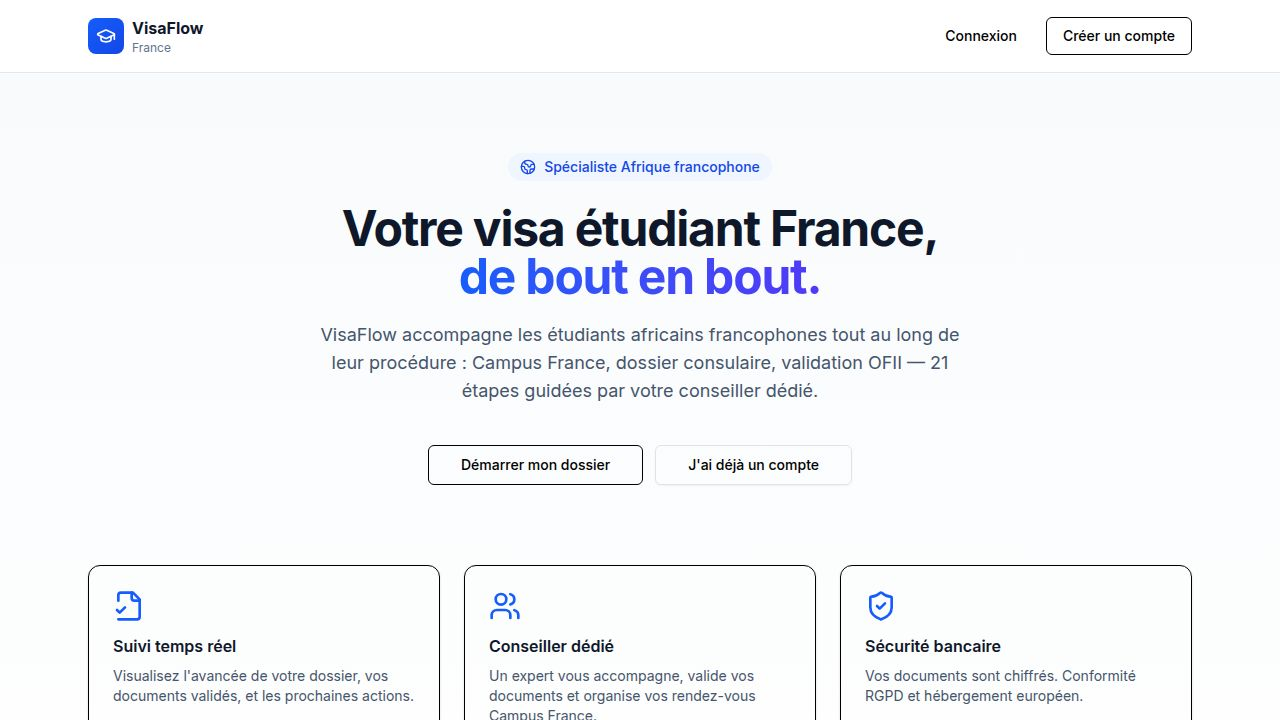
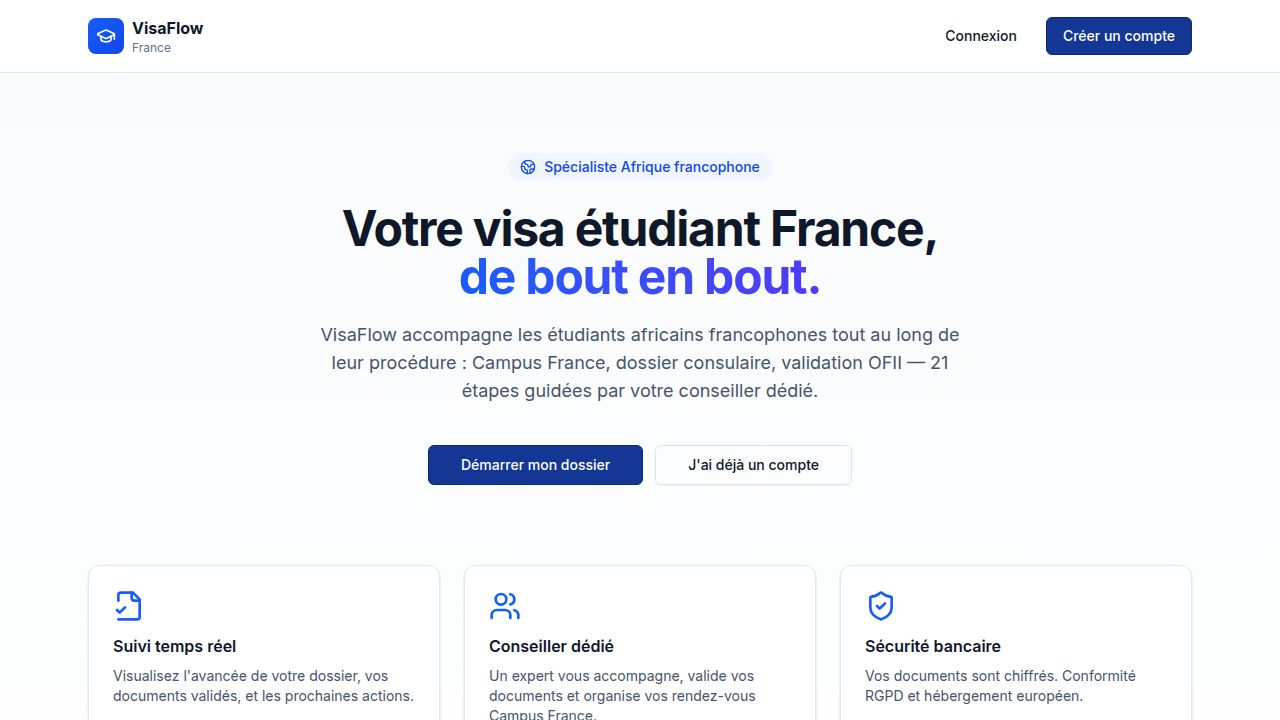
Task #4: Frontend shell — auth, routing & layouts
State coming in
- Most of the shell was already in place from earlier work:
  * ClerkProvider in main.tsx with VITE_CLERK_PUBLISHABLE_KEY,
    Clerk proxy `/api/__clerk` in production, French
    localization, brand colorPrimary.
  * Sign-in/Sign-up routes (with /:rest* catchalls) wired in
    App.tsx.
  * `useApiAuthSetup` (lib/api.ts) registers Clerk getToken with
    @workspace/api-client-react via setAuthTokenGetter.
  * AppRouter using wouter with base = import.meta.env.BASE_URL
    and protected routes wrapping Layout.
  * `<Protected>` guard redirects signed-out users to "/", and
    HomeRedirect sends signed-in users to /app.
  * Layout with role-aware sidebar (student / advisor + reviewer /
    admin + superadmin) using useGetMe + useListNotifications,
    French labels, unread badge, Clerk UserButton.
  * Toaster wired globally in App.tsx (shadcn toast +
    use-toast hook); Sonner is also available as a component.
  * NotFound, Landing, AuthPages, Dashboard, Onboarding,
    StudentsList, StudentDetail, MyDossier, MyTasks,
    Notifications, Profile, AdminUsers/Audit/Schools/Countries
    pages already exist as route targets.

What this change does
- Filled in the design system tokens in
  artifacts/visaflow/src/index.css. Every CSS variable in :root
  and .dark was previously a "red" placeholder, which would have
  broken every shadcn component the moment a user navigated
  past the bespoke Landing/Sign-in pages.
[…]

Changed region(s): [[0.8125, 0.0, 0.9375, 0.0917], [0.3125, 0.6111, 0.5, 0.6722]]

diff --git a/artifacts/visaflow/src/index.css b/artifacts/visaflow/src/index.css
@@ -78,67 +78,50 @@
   --elevate-1: rgba(0,0,0, .03);
   --elevate-2: rgba(0,0,0, .08);
 
-  --background: red; /*replace with H S L */
+  --background: 210 40% 98%;
+  --foreground: 222 47% 11%;
 
-  --foreground: red; /*replace with H S L */
+  --border: 214 32% 91%;
 
-  --border: red; /*replace with H S L */
+  --card: 0 0% 100%;
+  --card-foreground: 222 47% 11%;
+  --card-border: 214 32% 91%;
 
-  --card: red; /*replace with H S L */
+  --sidebar: 0 0% 100%;
+  --sidebar-foreground: 222 47% 11%;
+  --sidebar-border: 214 32% 91%;
+  --sidebar-primary: 224 76% 33%;
+  --sidebar-primary-foreground: 0 0% 100%;
+  --sidebar-accent: 214 95% 93%;
+  --sidebar-accent-foreground: 224 76% 33%;
+  --sidebar-ring: 224 76% 48%;
 
-  --card-foreground: red; /*replace with H S L */
+  --popover: 0 0% 100%;
+  --popover-foreground: 222 47% 11%;
+  --popover-border: 214 32% 91%;
 
-  --card-border: red; /*replace with H S L */
+  --primary: 224 76% 33%;
+  --primary-foreground: 0 0% 100%;
 
-  --sidebar: red; /*replace with H S L */
+  --secondary: 214 95% 93%;
+  --secondary-foreground: 224 76% 33%;
 
-  --sidebar-foreground: red; /*replace with H S L */
+  --muted: 210 40% 96%;
+  --muted-foreground: 215 16% 47%;
 
-  --sidebar-border: red; /*replace with H S L */
+  --accent: 214 95% 93%;
+  --accent-foreground: 224 76% 33%;
 
-  --sidebar-primary: red; /*replace with H S L */
+  --destructive: 0 84% 60%;
+  --destructive-foreground: 0 0% 100%;
 
-  --sidebar-primary-foreground: red; /*replace with H S L */
-
-  --sidebar-accent: red; /*replace with H S L */
-
-  --sidebar-accent-foreground: red; /*replace with H S L */
-
-  --sidebar-ring: red; /*replace with H S L */
-
-  --popover: red; /*replace with H S L */
-
-  --popover-foreground: red; /*replace with H S L */
-
-  --popover-border: red; /*replace with H S L */
-
-  --primary: red; /*replace with H S L */
-
-  --primary-foreground: red; /*replace with H S L */
-
-  --secondary: red; /*replace with H S L */
-
-  --secondary-foreground: red; /*replace with H S L */
-
-  --muted: red; /*replace with H S L */
-
-  --muted-foreground: red; /*replace with H S L */
-
-  --accent: red; /*replace with H S L */
-
-  --accent-foreground: red; /*replace with H S L */
-
-  --destructive: red; /*replace with H S L */
-
-  --destructive-foreground: red; /*replace with H S L */
-
-  --input: red; /*replace with H S L */
-  --ring: red; /*replace with H S L */
-  --chart-1: red; /*replace with H S L */
-  --chart-2: red; /*replace with H S L */
-  --chart-3: red; /*replace with H S L */
-  --chart-4: red; /*replace with H S L */
-  --chart-5: red; /*replace with H S L */
+  --input: 214 32% 91%;
+  --ring: 224 76% 48%;
+  --chart-1: 224 76% 48%;
+  --chart-2: 142 71% 45%;
+  --chart-3: 38 92% 50%;
+  --chart-4: 0 84% 60%;
+  --chart-5: 262 83% 58%;
 
   --app-font-sans: 'Inter', sans-serif;
   --app-font-serif: Georgia, serif;
@@ -196,68 +179,50 @@
   --elevate-1: rgba(255,255,255, .04);
   --elevate-2: rgba(255,255,255, .09);
 
-  --background: red; /*replace with H S L */
+  --background: 222 47% 6%;
+  --foreground: 210 40% 98%;
 
-  --foreground: red; /*replace with H S L */
+  --border: 217 33% 18%;
 
-  --border: red; /*replace with H S L */
+  --card: 222 47% 9%;
+  --card-foreground: 210 40% 98%;
+  --card-border: 217 33% 18%;
 
-  --card: red; /*replace with H S L */
+  --sidebar: 222 47% 9%;
+  --sidebar-foreground: 210 40% 98%;
+  --sidebar-border: 217 33% 18%;
+  --sidebar-primary: 217 91% 60%;
+  --sidebar-primary-foreground: 222 47% 11%;
+  --sidebar-accent: 217 33% 18%;
+  --sidebar-accent-foreground: 210 40% 98%;
+  --sidebar-ring: 217 91% 60%;
 
-  --card-foreground: red; /*replace with H S L */
+  --popover: 222 47% 9%;
+  --popover-foreground: 210 40% 98%;
+  --popover-border: 217 33% 18%;
 
-  --card-border: red; /*replace with H S L */
+  --primary: 217 91% 60%;
+  --primary-foreground: 222 47% 11%;
 
-  --sidebar: red; /*replace with H S L */
+  --secondary: 217 33% 18%;
+  --secondary-foreground: 210 40% 98%;
 
-  --sidebar-foreground: red; /*replace with H S L */
+  --muted: 217 33% 18%;
+  --muted-foreground: 215 20% 65%;
 
-  --sidebar-border: red; /*replace with H S L */
+  --accent: 217 33% 18%;
+  --accent-foreground: 210 40% 98%;
 
-  --sidebar-primary: red; /*replace with H S L */
+  --destructive: 0 72% 51%;
+  --destructive-foreground: 210 40% 98%;
 
-  --sidebar-primary-foreground: red; /*replace with H S L */
-
-  --sidebar-accent: red; /*replace with H S L */
-
-  --sidebar-accent-foreground: red; /*replace with H S L */
-
-  --sidebar-ring: red; /*replace with H S L */
-
-  --popover: red; /*replace with H S L */
-
-  --popover-foreground: red; /*replace with H S L */
-
-  --popover-border: red; /*replace with H S L */
-
-  --primary: red; /*replace with H S L */
-
-  --primary-foreground: red; /*replace with H S L */
-
-  --secondary: red; /*replace with H S L */
-
-  --secondary-foreground: red; /*replace with H S L */
-
-  --muted: red; /*replace with H S L */
-
-  --muted-foreground: red; /*replace with H S L */
-
-  --accent: red; /*replace with H S L */
-
-  --accent-foreground: red; /*replace with H S L */
-
-  --destructive: red; /*replace with H S L */
-
-  --destructive-foreground: red; /*replace with H S L */
-
-  /* Used as the border around inputs. Dark mode: Should be a border that is light enough to have high contrast when rendered on a --card background. More contrast than standard --border */
-  --input: red; /*replace with H S L */
-  --ring: red; /*replace with H S L */
-  --chart-1: red; /*replace with H S L */
-  --chart-2: red; /*replace with H S L */
-  --chart-3: red; /*replace with H S L */
-  --chart-4: red; /*replace with H S L */
-  --chart-5: red; /*replace with H S L */
+  --input: 217 33% 22%;
+  --ring: 217 91% 60%;
+  --chart-1: 217 91% 60%;
+  --chart-2: 142 71% 45%;
+  --chart-3: 38 92% 50%;
+  --chart-4: 0 72% 51%;
+  --chart-5: 262 83% 58%;
 
   --shadow-2xs: 0px 2px 0px 0px hsl(202.8169 89.1213% 53.1373% / 0.00);
   --shadow-xs: 0px 2px 0px 0px hsl(202.8169 89.1213% 53.1373% / 0.00);
